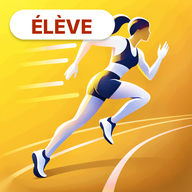
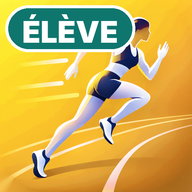
Icônes demi-fond : badge ÉLÈVE / PROF plus grand et en couleur
Claude-Session: https://claude.ai/code/session_01UuASiQCvSrQnQNuK24r3AJ

Changed region(s): [[0.0, 0.0, 0.7188, 0.2812]]

diff --git a/sw.js b/sw.js
@@ -1,7 +1,7 @@
 /* Hors ligne : l'appli est gardée sur l'appareil à la première ouverture avec internet,
    puis s'ouvre sans connexion. La page est rechargée depuis GitHub dès que le réseau répond (3 s max) ;
    les autres fichiers sont servis depuis l'appareil et mis à jour en arrière-plan. */
-const CACHE='mon-eps-v3';
+const CACHE='mon-eps-v4';
 const SHELL=['./','index.html','manifest.webmanifest','icon-32.png','icon-180.png','icon-192.png','icon-512.png'];
 const FILES=[];
 const CDN=/(^|\.)(cdnjs\.cloudflare\.com|cdn\.jsdelivr\.net|unpkg\.com|cdn\.tailwindcss\.com|fonts\.googleapis\.com|fonts\.gstatic\.com)$/;
